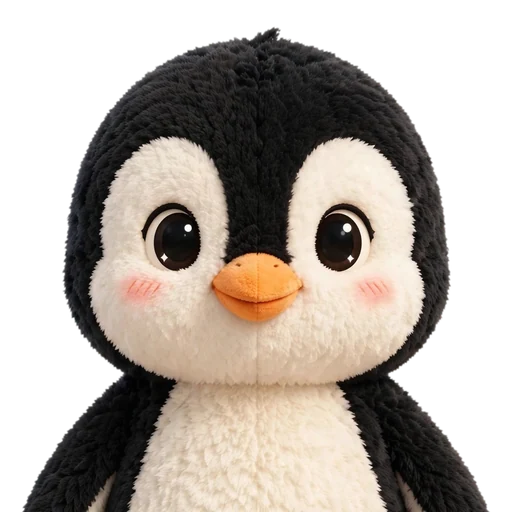
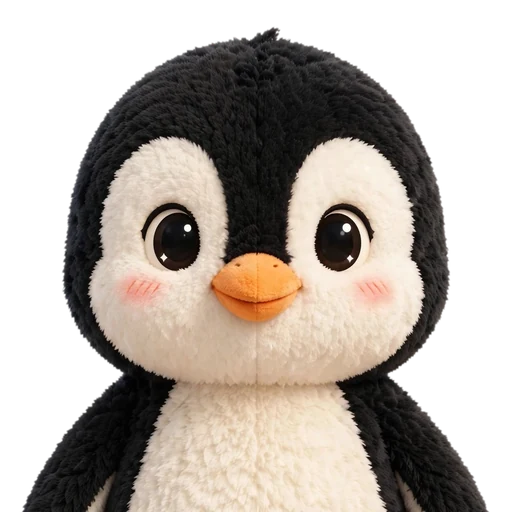
Art: every animal cheers and blinks
Each animal has a cheering face (happy eyes, open mouth) and a blink,
from the owner's mood renders. The renders of one animal are made one
at a time, so it is never quite the same twice; two things keep a
change of face from showing as a jump (scripts/animal-art.py):

- every mood face is lined up with the idle face (its outline fitted to
  the idle one's by a small affine fit);
- the blink, which flashes on a still face, is the idle face itself with
  only the eyes taken from the blink render, so nothing but the eyes
  changes.

Only an animal that is given a mood (the one in a game) carries the
blink picture, so the picker and the lists load nothing extra; the game
frame preloads the animal's faces so the first cheer is never a blank.

Not shipped: the "think" renders frown (a sad or cross animal on a
child's wrong answer, which the plan rules out), and the "wait" renders
do not differ from idle enough to be worth a change of face. A mood
without a face of its own keeps the idle face, as before.

Claude-Session: https://claude.ai/code/session_01VPsoz1zCgxKYsU219T5WFB

diff --git a/e2e/animals-art.spec.ts b/e2e/animals-art.spec.ts
@@ -133,3 +133,46 @@ test("a mood with no frame of its own shows the idle face, and the mood still sh
   await expect(host).toHaveAttribute("data-frame", "idle");
   expect(missing).toEqual([]);
 });
+
+test("in a game the animal blinks, and a right answer shows its cheering face", async ({ page }) => {
+  const missing = watchArt(page);
+  await install(page, profile("penguin"));
+  await page.getByRole("button", { name: "Mia" }).click();
+  await page.locator("[data-course=science]").click();
+  await page.locator("[data-science=menu] [data-activity]").first().click();
+  const frame = page.locator(".game-frame").first();
+  const host = frame.locator(".game-host .avatar-painted").first();
+  // Idle: the idle face, with the blink face over it, shown for a moment now and then (an animation
+  // on the blink picture alone; between blinks it is see-through).
+  await expect(host).toHaveAttribute("data-frame", "idle");
+  const blink = host.locator("img.avatar-blink");
+  await expect(blink).toHaveAttribute("src", /\/animals\/penguin\/blink-face\.webp$/);
+  await expect.poll(() => blink.evaluate((img) => (img as HTMLImageElement).naturalWidth)).toBe(512);
+  expect(await blink.evaluate((img) => getComputedStyle(img).animationName)).toBe("avatar-blink-frame");
+  expect(await blink.evaluate((img) => getComputedStyle(img).opacity)).toBe("0");
+  // The right answer: the cheering face (its own picture), and no blink over it.
+  const need = (await frame.getAttribute("data-need")) ?? "";
+  await frame.locator(`.pick[data-give=${need}], .pick[data-pick=${need}]`).first().click();
+  await expect(host).toHaveAttribute("data-frame", "cheer");
+  await expect(host.locator("img").first()).toHaveAttribute("src", /\/animals\/penguin\/cheer-face\.webp$/);
+  await expect(host.locator("img.avatar-blink")).toHaveCount(0);
+  expect(missing).toEqual([]);
+});
+
+test("every animal has a cheering face and a blink, the size of its idle face", async ({ page }) => {
+  await page.goto("./");
+  const sizes = await page.evaluate(async (base) => {
+    const animals = ["cat", "dog", "fox", "bear", "bunny", "owl", "frog", "duck", "pig", "penguin", "lion", "koala"];
+    const load = (src: string) =>
+      new Promise<number>((resolve) => {
+        const img = new Image();
+        img.onload = () => resolve(img.naturalWidth === img.naturalHeight ? img.naturalWidth : -1);
+        img.onerror = () => resolve(0);
+        img.src = src;
+      });
+    const out: Record<string, number> = {};
+    for (const animal of animals) for (const frame of ["idle", "cheer", "blink"]) out[`${animal}/${frame}`] = await load(`${base}animals/${animal}/${frame}-face.webp`);
+    return out;
+  }, new URL("./", page.url()).pathname);
+  for (const [name, size] of Object.entries(sizes)) expect(size, name).toBe(512);
+});

diff --git a/src/avatars.tsx b/src/avatars.tsx
@@ -276,17 +276,20 @@ const avatars: Record<AnimalId, (face: Face) => JSX.Element> = {
  * mood's frame. With a blink frame, that sits on top and shows for a moment now and then (CSS); the
  * idle frame underneath is what shows between blinks, so the face never flashes a different look.
  */
-export function Avatar({ animal, mood = "idle", view = "face" }: { animal: AnimalId; mood?: Mood; view?: ArtView }) {
+export function Avatar({ animal, mood, view = "face" }: { animal: AnimalId; mood?: Mood; view?: ArtView }) {
   const entry = ART[animal];
+  const look = mood ?? "idle";
   if (!entry) {
     const Art = avatars[animal];
-    return <Art mood={mood} />;
+    return <Art mood={look} />;
   }
-  const frame = frameFor(animal, mood);
+  const frame = frameFor(animal, look);
   const shown = viewFor(animal, view);
-  const blinks = frame === "idle" && entry.frames.includes("blink");
+  // Only an animal that is given a mood is alive on the page (the one in a game): a face on a list
+  // or the picker does not blink, so it does not carry (or load) the blink picture.
+  const blinks = mood !== undefined && frame === "idle" && entry.frames.includes("blink");
   return (
-    <span className="avatar-art avatar-painted" data-mood={mood} data-view={shown} data-frame={frame} aria-hidden="true">
+    <span className="avatar-art avatar-painted" data-mood={look} data-view={shown} data-frame={frame} aria-hidden="true">
       {/* The size attributes give the box its shape before the picture arrives (a face is square), so nothing jumps. */}
       <img src={artSrc(animal, frame, shown)} width={shown === "face" ? 512 : undefined} height={shown === "face" ? 512 : undefined} alt="" draggable={false} decoding="async" />
       {blinks ? <img className="avatar-blink" src={artSrc(animal, "blink", shown)} alt="" draggable={false} decoding="async" /> : null}

diff --git a/src/game/kit.tsx b/src/game/kit.tsx
@@ -1,7 +1,7 @@
 import { useCallback, useEffect, useRef, useState, type ReactNode } from "react";
 import { playEffect } from "../audio/manager";
 import { promptCue, type Cue } from "../audio/player";
-import { Avatar } from "../avatars";
+import { Avatar, preloadArt } from "../avatars";
 import { Hero } from "../components/Hero";
 import { SpeakerIcon } from "../components/icons";
 import type { AnimalId } from "../data/animals";
@@ -553,6 +553,8 @@ export function GameFrame({
   attrs?: Record<string, string | number | undefined>;
 }) {
   const mood: Mood = rounds.finished ? "cheer" : lookOf(coach);
+  // The animal's other faces, ready before the first right answer asks for one.
+  useEffect(() => preloadArt(animal), [animal]);
   return (
     <div
       className="game-frame"

diff --git a/scripts/animal-art.py b/scripts/animal-art.py
@@ -20,6 +20,14 @@ the CSS filter that turns its fur powder blue (the "sky" colour of the dress-up 
 per animal, from its fur's own hue, so it works on every frame without a blue copy of each). The
 app falls back to a missing mood frame's idle frame, so frames can land one at a time.
 
+The renders of one animal are made one at a time, so the animal is never quite the same twice.
+Two things keep a change of frame from showing as a jump:
+  every mood frame's face is lined up with the idle face (its outline fitted to the idle one's);
+  the blink frame, which flashes on a still face, is the idle face itself with only the eyes
+  taken from the blink render, so nothing but the eyes changes.
+Give the script only the frames that are fit to ship (look at them first: a "think" that frowns is
+a sad animal on a child's wrong answer).
+
 The cut-out is classical (OpenCV GrabCut seeded by distance from the backdrop colour), since the
 sources come without transparency: it holds up on these figures, cream paws and floor shadow
 included. Needs: pip install opencv-python-headless pillow numpy
@@ -154,8 +162,67 @@ def crop(rgba, box, pad):
     return out
 
 
+def face_image(rgba, head):
+    """The face crop at its shipped size, as an RGBA array."""
+    face = Image.fromarray(cv2.cvtColor(crop(rgba, head, 0.06), cv2.COLOR_BGRA2RGBA)).resize((FACE_PX, FACE_PX), Image.LANCZOS)
+    return np.array(face)
+
+
+def on_grey(face):
+    """A face on mid grey, blurred: its outline and big shapes, not its fur or its expression."""
+    a = face[:, :, 3:4].astype(np.float32) / 255
+    grey = cv2.cvtColor(face[:, :, :3], cv2.COLOR_RGB2GRAY).astype(np.float32)[:, :, None]
+    return cv2.GaussianBlur((grey * a + 128 * (1 - a))[:, :, 0], (0, 0), 6)
+
+
+def lined_up(face, idle):
+    """The mood face moved and sized to sit where the idle face sits (a small affine fit, or as it is if the fit runs wild)."""
+    warp = np.eye(2, 3, dtype=np.float32)
+    try:
+        _, warp = cv2.findTransformECC(on_grey(idle), on_grey(face), warp, cv2.MOTION_AFFINE, (cv2.TERM_CRITERIA_EPS | cv2.TERM_CRITERIA_COUNT, 200, 1e-5), None, 5)
+    except cv2.error:
+        return face, "not lined up (no fit)"
+    scale = float(np.sqrt(abs(np.linalg.det(warp[:, :2]))))
+    shift = float(np.hypot(warp[0, 2], warp[1, 2]))
+    if not (0.85 < scale < 1.18) or shift > 80:
+        return face, f"not lined up (fit ran wild: scale {scale:.2f}, shift {shift:.0f})"
+    moved = cv2.warpAffine(face, warp, (FACE_PX, FACE_PX), flags=cv2.INTER_LINEAR | cv2.WARP_INVERSE_MAP, borderMode=cv2.BORDER_CONSTANT, borderValue=(0, 0, 0, 0))
+    return moved, f"lined up (scale {scale:.3f}, shift {shift:.1f})"
+
+
+def eyes_only(blink, idle):
+    """
+    The idle face with the blink render's eyes: the two places, in the upper middle of the face, where
+    the two differ most (an open eye is dark; a closed one is fur and a line), widened to take in the
+    whole closed eye and eased into the fur around. None if two eyes cannot be found.
+    """
+    lab = lambda face: cv2.cvtColor(face[:, :, :3], cv2.COLOR_RGB2LAB).astype(np.float32)
+    inside = cv2.erode((np.minimum(blink[:, :, 3], idle[:, :, 3]) > 200).astype(np.uint8), np.ones((25, 25), np.uint8))
+    diff = cv2.GaussianBlur(np.linalg.norm(lab(blink) - lab(idle), axis=2), (0, 0), 3) * inside
+    band = np.zeros_like(diff)
+    band[int(FACE_PX * 0.12) : int(FACE_PX * 0.72)] = 1
+    hot = cv2.morphologyEx(((diff * band) > 42).astype(np.uint8), cv2.MORPH_CLOSE, np.ones((9, 9), np.uint8))
+    n, labels, stats, centres = cv2.connectedComponentsWithStats(hot)
+    blobs = sorted(range(1, n), key=lambda i: -stats[i, cv2.CC_STAT_AREA])
+    blobs = [i for i in blobs if stats[i, cv2.CC_STAT_AREA] > 180]
+    # Two eyes: the two biggest that sit side by side, one each side of the middle.
+    pair = next(((i, j) for i in blobs[:4] for j in blobs[:4] if i < j and abs(centres[i][1] - centres[j][1]) < FACE_PX * 0.08 and (centres[i][0] - FACE_PX / 2) * (centres[j][0] - FACE_PX / 2) < 0), None)
+    if pair is None:
+        return None, "no two eyes found"
+    mask = np.zeros(diff.shape, np.uint8)
+    for i in pair:
+        x, y, w, h = stats[i, :4]
+        grow = int(max(w, h) * 0.38)
+        cv2.ellipse(mask, (int(x + w / 2), int(y + h / 2)), (w // 2 + grow, h // 2 + grow), 0, 0, 360, 1, -1)
+    soft = cv2.GaussianBlur(mask.astype(np.float32), (0, 0), 7)[:, :, None]
+    out = idle.astype(np.float32) * (1 - soft) + blink.astype(np.float32) * soft
+    out[:, :, 3] = idle[:, :, 3]
+    return out.astype(np.uint8), f"eyes at {[tuple(int(v) for v in centres[i]) for i in pair]}"
+
+
 def main(folder: Path, with_body: bool):
     manifest = json.loads(MANIFEST.read_text()) if MANIFEST.exists() else {}
+    sources = {}
     for path in sorted(folder.glob("*")):
         if path.suffix.lower() not in (".webp", ".png", ".jpg"):
             continue
@@ -163,33 +230,52 @@ def main(folder: Path, with_body: bool):
         if not m:
             print("skip", path.name)
             continue
-        animal, frame = m.group(1), m.group(2) or "idle"
-        frame = "idle" if frame == "mockup" else frame
-        rgba = cut_out(path)
-        box = figure_box(rgba[:, :, 3])
-        head = head_box(rgba[:, :, 3], box)
-        body = crop(rgba, box, 0.03)
-        bw, bh = body.shape[1], body.shape[0]
-        if with_body:
-            save_webp(body, OUT / animal / f"{frame}.webp", (round(BODY_PX * bw / bh), BODY_PX))
-        face = crop(rgba, head, 0.06)
-        save_webp(face, OUT / animal / f"{frame}-face.webp", (FACE_PX, FACE_PX))
-        entry = manifest.setdefault(animal, {"frames": [], "body": False, "head": {}, "sky": ""})
-        if frame not in entry["frames"]:
-            entry["frames"].append(frame)
-        if frame == "idle":
-            entry["body"] = with_body
-            entry["sky"] = sky_filter(face)
-            # The head in the whole figure's image, as fractions of it, for the outfit pieces.
-            fx0, fy0 = box[0] - int((box[2] - box[0]) * 0.03), box[1] - int((box[3] - box[1]) * 0.03)
-            entry["head"] = {
-                "x": round((head[0] - fx0) / bw, 4),
-                "y": round((head[1] - fy0) / bh, 4),
-                "w": round((head[2] - head[0]) / bw, 4),
-                "h": round((head[3] - head[1]) / bh, 4),
-            }
-        entry["frames"] = [f for f in FRAMES if f in entry["frames"]]
-        print(animal, frame, "figure", box, "head", head)
+        frame = m.group(2) or "idle"
+        sources.setdefault(m.group(1), {})["idle" if frame == "mockup" else frame] = path
+    for animal in ANIMALS:
+        idle_face = None
+        # The idle frame first: the others are fitted to it.
+        for frame in [f for f in FRAMES if f in sources.get(animal, {})]:
+            rgba = cut_out(sources[animal][frame])
+            box = figure_box(rgba[:, :, 3])
+            head = head_box(rgba[:, :, 3], box)
+            body = crop(rgba, box, 0.03)
+            bw, bh = body.shape[1], body.shape[0]
+            if with_body:
+                save_webp(body, OUT / animal / f"{frame}.webp", (round(BODY_PX * bw / bh), BODY_PX))
+            face = face_image(rgba, head)
+            note = ""
+            if frame == "idle":
+                idle_face = face
+            elif idle_face is not None and frame not in ("wave", "silly"):
+                # (A wave lifts a paw and a silly face tips the head: their outlines are their own.)
+                face, note = lined_up(face, idle_face)
+                if frame == "blink":
+                    blended, found = eyes_only(face, idle_face)
+                    note = f"{note}; {found}"
+                    if blended is None:
+                        print(animal, frame, "LEFT OUT:", note)
+                        continue
+                    face = blended
+            path = OUT / animal / f"{frame}-face.webp"
+            path.parent.mkdir(parents=True, exist_ok=True)
+            Image.fromarray(face).save(path, "WEBP", quality=88, method=6)
+            entry = manifest.setdefault(animal, {"frames": [], "body": False, "head": {}, "sky": ""})
+            if frame not in entry["frames"]:
+                entry["frames"].append(frame)
+            if frame == "idle":
+                entry["body"] = with_body
+                entry["sky"] = sky_filter(crop(rgba, head, 0.06))
+                # The head in the whole figure's image, as fractions of it, for the outfit pieces.
+                fx0, fy0 = box[0] - int((box[2] - box[0]) * 0.03), box[1] - int((box[3] - box[1]) * 0.03)
+                entry["head"] = {
+                    "x": round((head[0] - fx0) / bw, 4),
+                    "y": round((head[1] - fy0) / bh, 4),
+                    "w": round((head[2] - head[0]) / bw, 4),
+                    "h": round((head[3] - head[1]) / bh, 4),
+                }
+            entry["frames"] = [f for f in FRAMES if f in entry["frames"]]
+            print(animal, frame, note)
     MANIFEST.write_text(json.dumps({k: manifest[k] for k in ANIMALS if k in manifest}, indent=2) + "\n")
 
 

diff --git a/ASSETS.md b/ASSETS.md
@@ -11,7 +11,7 @@ Everything visual or audible in LittleNest Learning is listed here. There are no
 | Cat, dog, sun, hat, pig, bus, cup, bed, fox, apple | `src/illustrations.tsx` | Original flat drawings made for this project | Original. No third-party artwork. |
 | Word-ladder pictures (one apple, child, frog, fish, and the other new words) | `src/wordScenes.tsx` | Original flat drawings made for this project | Original. No third-party artwork. |
 | Gear, speaker, play, arrow, star, and review badge icons | `src/components/icons.tsx` | Original simple SVG icons made for this project | Original. No third-party artwork. |
-| Profile animals, painted: cat, dog, fox, bear, bunny, owl, frog, duck, pig, penguin, lion, koala | `public/animals/<id>/*-face.webp`, `src/data/animalArt.json` | Plush-style portraits made for this project with an image generator from a style reference, approved by the owner; cut out and cropped to the face by `scripts/animal-art.py` from the source renders (kept outside the repo). The fox also has a `wave` and a `silly` frame. | Original to this project. No third-party characters or artwork. |
+| Profile animals, painted: cat, dog, fox, bear, bunny, owl, frog, duck, pig, penguin, lion, koala | `public/animals/<id>/*-face.webp`, `src/data/animalArt.json` | Plush-style portraits made for this project with an image generator from a style reference, approved by the owner; cut out and cropped to the face by `scripts/animal-art.py` from the source renders (kept outside the repo). Each animal has a `cheer` and a `blink` frame too (the cheer lined up with the idle face; the blink is the idle face with only the eyes from the blink render); the fox also has a `wave` and a `silly` frame. | Original to this project. No third-party characters or artwork. |
 | Profile animals, drawn: the same twelve | `src/avatars.tsx` | Original flat animal portraits made for this project; shown when an animal has no painted face | Original. No third-party artwork. |
 | Game props, painted: two blank coin faces (copper, silver); the garden's bed, seed, sun, watering can, sprout, plant and flower | `public/games/*.webp`, `public/games/garden/*.webp` | Watercolour props made for this project with an image generator, approved by the owner; cut off their paper backdrop by `scripts/game-art.py` (the coins' pressed star painted out, the plant lifted off the bed it was painted in). The coins are pretend: the app draws each one's number and size. Not pictures of real money. | Original to this project. No third-party artwork. |
 | Dress-up pieces, painted: leaf hat, paper crown, round glasses, dot scarf, stripe scarf | `public/wardrobe/*.webp`, `src/data/wardrobeArt.json` | Made for this project with an image generator (the fox wearing each piece, in the plush style), approved by the owner; the piece lifted off the fox by `scripts/wardrobe-art.py` (the stripe scarf traced by hand, since it shares the fox's colours). The sky colour is a CSS filter on the animal, one per animal from its fur (`animalArt.json`). | Original to this project. No third-party artwork. |
